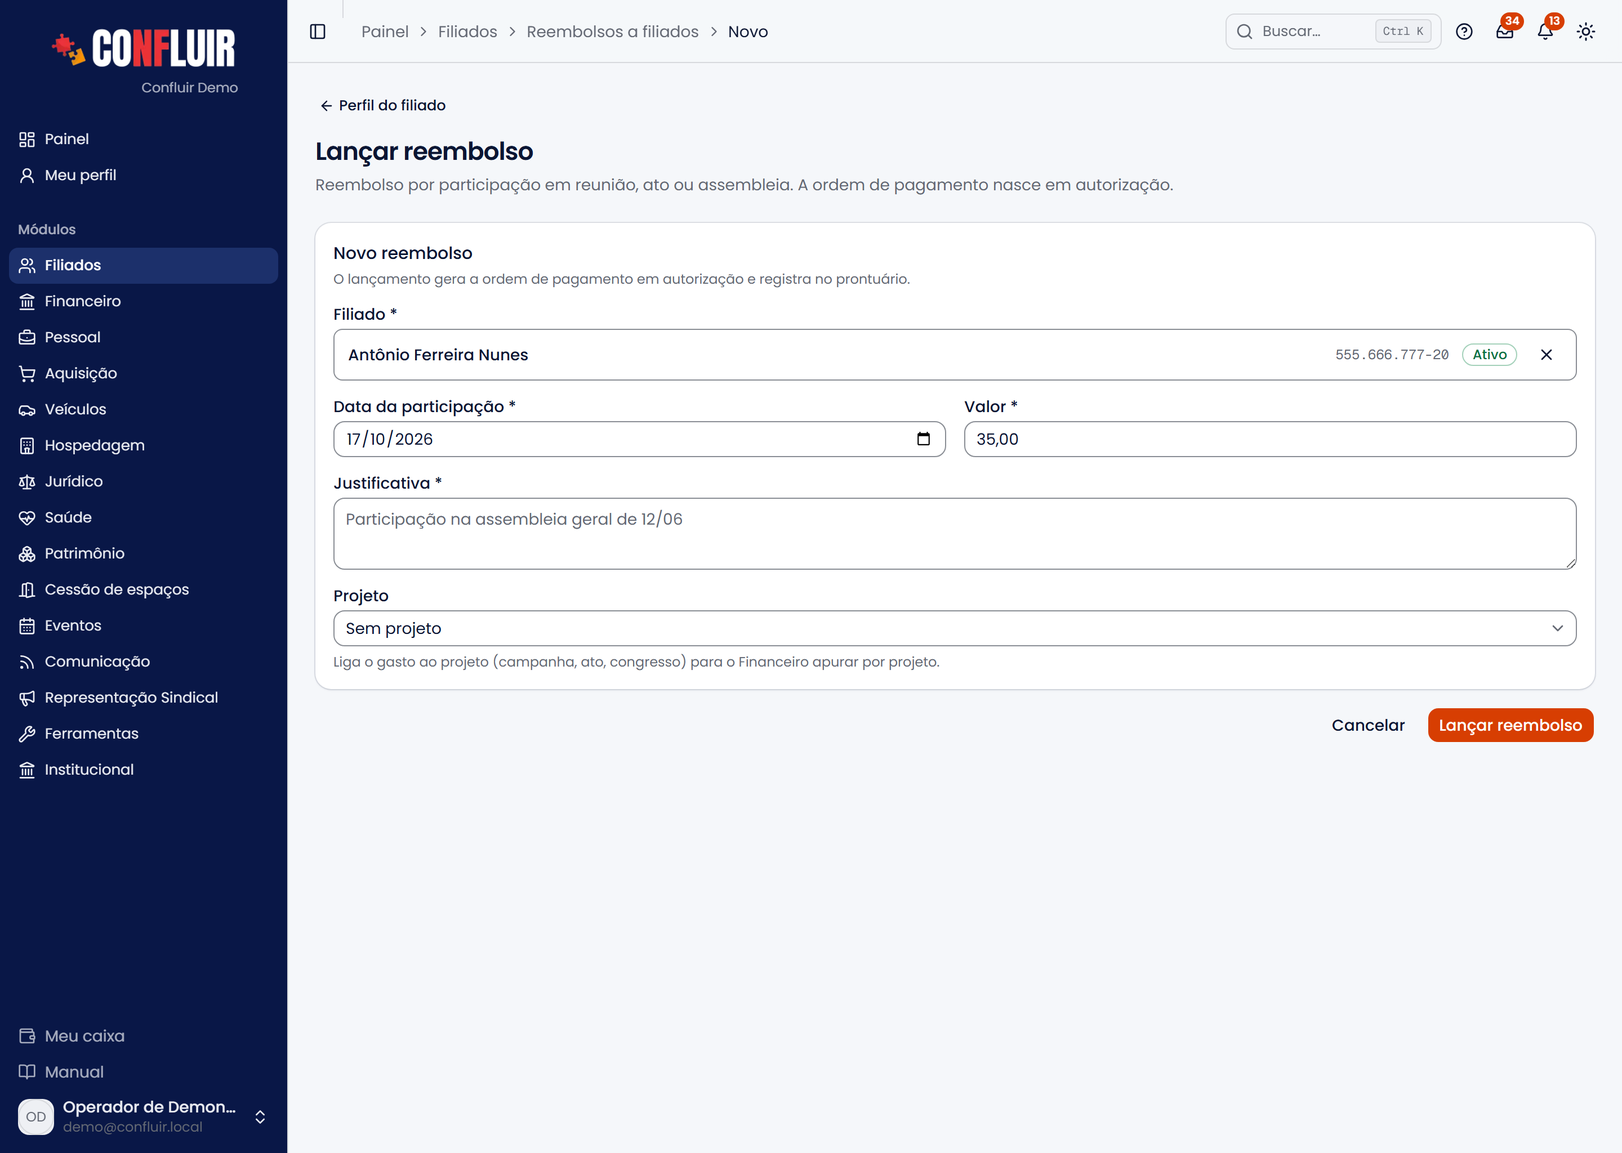
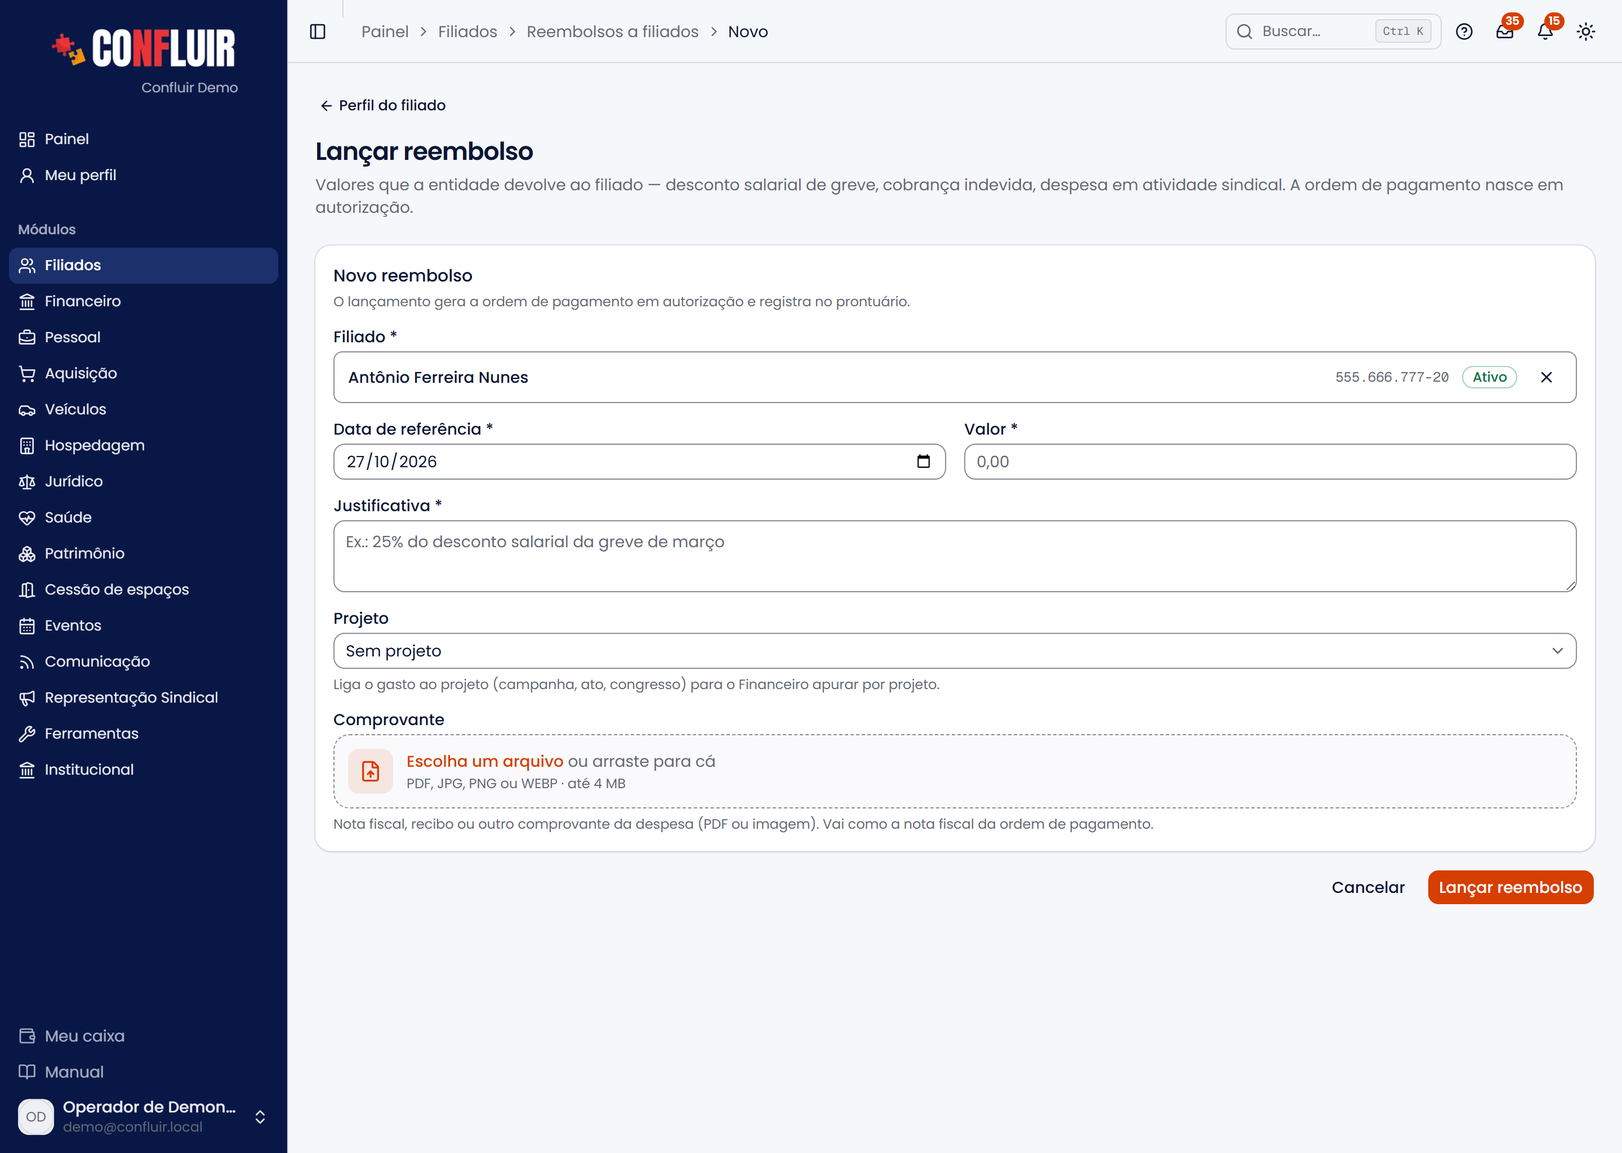
Reembolsos a filiados: sem valor padrão e textos do uso real
O valor fixo de R$ 35 (ajuda de presença) não corresponde ao uso: quase todos
os lançamentos devolvem desconto salarial de greve ou cobrança indevida.
Sai o valor padrão (campo da Configuração, preenchimento no formulário e
cartão da lista); a Configuração fica só com o centro de custo, e a coluna
valor_reembolso segue no banco sem uso.

Textos deixam de falar em "participação em reunião, ato ou assembleia":
subtítulos, card do perfil, "Data de referência", exemplo da justificativa e
a descrição da ordem ("Reembolso a filiado"). Manual, prints e base de ajuda
(só o artigo de reembolsos) atualizados.

diff --git a/src/lib/ajuda/base-conhecimento.ts b/src/lib/ajuda/base-conhecimento.ts
@@ -172,7 +172,7 @@ export const BASE_AJUDA: ArtigoBase[] = [
   {
     "area": "filiados",
     "slug": "reembolsos",
-    "texto": "Reembolso a filiado é o valor que a entidade devolve ao associado por\nparticipar de uma atividade sindical — reunião, ato, assembleia, congresso.\nÉ um valor fixo por participação, definido pela entidade, e cada lançamento\ngera a ordem de pagamento no Financeiro.\n\n Reembolsos \n\n O que a tela mostra\n\nFiliados → Reembolsos abre com quanto já foi lançado no mês.\nAbaixo, a lista de lançamentos com filiado, justificativa, projeto, valor,\no código da ordem e a situação — que é a situação da ordem no\nFinanceiro: Em autorização, A pagar, Paga.\n\n \n\n Lançar um reembolso\n\n \n \nEscolha o filiado: \n Pelo botão Lançar reembolso (busca por nome, CPF ou matrícula) ou,\n mais rápido, pelo botão de mesmo nome no cartão Reembolsos do\n perfil do filiado — aí a pessoa já vem escolhida.\n \n \nData, justificativa e projeto: \n A data é a da participação. A justificativa diz o motivo (\"assembleia\n geral de 12/06\"). O projeto liga o gasto à campanha ou ao ato, para o\n Financeiro apurar por projeto.\n \n \nInforme o valor: \n O valor a reembolsar naquele caso — não há valor padrão.\n \n \nAnexe o comprovante (opcional): \n Nota fiscal, recibo ou outro comprovante da despesa, em PDF ou imagem (até\n 4 MB). Ele vai como a nota fiscal da ordem de pagamento: o Financeiro o\n vê na ordem e a auditoria o reconhece como anexado.\n \n \nLançar: \n No mesmo ato nascem a ordem de pagamento (tipo Reembolso, Em\n autorização, com o filiado como favorecido, o centro de custo da\n configuração, a chave Pix, se a entidade a tem, e o comprovante, se\n anexado) e um apontamento no prontuário do filiado.\n \n \n\n \n\nA autorização continua sendo humana: \n O lançamento não paga ninguém. A ordem chega ao Financeiro Em\n autorização e segue pela alçada como qualquer outra. Quem lança\n reembolso não precisa ter alçada.\n \n\n Editar e desfazer\n\nClique no lançamento para abrir. Enquanto a ordem não foi paga, tudo se\nedita — e a ordem acompanha (valor e descrição). Com a ordem paga, só\njustificativa e projeto mudam: o dinheiro saiu, valor e data ficam.\n\nO comprovante pode ser anexado ou trocado a qualquer momento, mesmo com a\nordem paga: o botão Comprovante, ao lado da ordem, abre o arquivo atual, e\no campo Trocar o comprovante do formulário substitui a nota fiscal da\nordem. A troca fica na trilha da ordem e a auditoria a reavalia. Salvar sem\nescolher arquivo mantém o comprovante que já estava.\n\nDesfazer apaga o lançamento, o apontamento do prontuário e marca a ordem\ncomo excluída no Financeiro. Ordem paga não se desfaz — um pagamento\nindevido se trata no Financeiro.\n\n Configuração\n\nEm Reembolsos → Configuração a entidade define o centro de custo: a\nordem nasce com ele como centro de custo de despesa.\n\n De onde vieram\n\nOs 1.848 reembolsos do sistema antigo vieram na virada da Filiação\n(setembro de 2026), com justificativa, projeto e a ordem de pagamento\ncorrespondente. Alguns não têm ordem ligada — o registro antigo não a\nguardava — e aparecem com sem ordem na situação.\n\n Erros comuns\n\n- \"Não vejo o botão Lançar reembolso no perfil.\" Exige a permissão\n Reembolsos ou Gestão da filiação.\n- \"A situação não muda para Paga.\" O pagamento é registrado no\n Financeiro, na ordem. Aqui só se lê."
+    "texto": "Reembolso a filiado é o valor que a entidade devolve ao associado — o\ndesconto salarial de uma greve, uma cobrança feita em duplicidade, uma despesa\nem atividade sindical. O valor é informado a cada lançamento, e cada lançamento\ngera a ordem de pagamento no Financeiro.\n\n Reembolsos \n\n O que a tela mostra\n\nFiliados → Reembolsos abre com quanto já foi lançado no mês.\nAbaixo, a lista de lançamentos com filiado, justificativa, projeto, valor,\no código da ordem e a situação — que é a situação da ordem no\nFinanceiro: Em autorização, A pagar, Paga.\n\n \n\n Lançar um reembolso\n\n \n \nEscolha o filiado: \n Pelo botão Lançar reembolso (busca por nome, CPF ou matrícula) ou,\n mais rápido, pelo botão de mesmo nome no cartão Reembolsos do\n perfil do filiado — aí a pessoa já vem escolhida.\n \n \nData, justificativa e projeto: \n A data de referência situa o reembolso no tempo (o dia do desconto, da\n cobrança ou da atividade). A justificativa diz o motivo (\"25% do desconto\n salarial da greve de março\"). O projeto liga o gasto à campanha ou ao ato,\n para o Financeiro apurar por projeto.\n \n \nInforme o valor: \n O valor a reembolsar naquele caso — não há valor padrão.\n \n \nAnexe o comprovante (opcional): \n Nota fiscal, recibo ou outro comprovante da despesa, em PDF ou imagem (até\n 4 MB). Ele vai como a nota fiscal da ordem de pagamento: o Financeiro o\n vê na ordem e a auditoria o reconhece como anexado.\n \n \nLançar: \n No mesmo ato nascem a ordem de pagamento (tipo Reembolso, Em\n autorização, com o filiado como favorecido, o centro de custo da\n configuração, a chave Pix, se a entidade a tem, e o comprovante, se\n anexado) e um apontamento no prontuário do filiado.\n \n \n\n \n\nA autorização continua sendo humana: \n O lançamento não paga ninguém. A ordem chega ao Financeiro Em\n autorização e segue pela alçada como qualquer outra. Quem lança\n reembolso não precisa ter alçada.\n \n\n Editar e desfazer\n\nClique no lançamento para abrir. Enquanto a ordem não foi paga, tudo se\nedita — e a ordem acompanha (valor e descrição). Com a ordem paga, só\njustificativa e projeto mudam: o dinheiro saiu, valor e data ficam.\n\nO comprovante pode ser anexado ou trocado a qualquer momento, mesmo com a\nordem paga: o botão Comprovante, ao lado da ordem, abre o arquivo atual, e\no campo Trocar o comprovante do formulário substitui a nota fiscal da\nordem. A troca fica na trilha da ordem e a auditoria a reavalia. Salvar sem\nescolher arquivo mantém o comprovante que já estava.\n\nDesfazer apaga o lançamento, o apontamento do prontuário e marca a ordem\ncomo excluída no Financeiro. Ordem paga não se desfaz — um pagamento\nindevido se trata no Financeiro.\n\n Configuração\n\nEm Reembolsos → Configuração a entidade define o centro de custo: a\nordem nasce com ele como centro de custo de despesa.\n\n De onde vieram\n\nOs 1.848 reembolsos do sistema antigo vieram na virada da Filiação\n(setembro de 2026), com justificativa, projeto e a ordem de pagamento\ncorrespondente. Alguns não têm ordem ligada — o registro antigo não a\nguardava — e aparecem com sem ordem na situação.\n\n Erros comuns\n\n- \"Não vejo o botão Lançar reembolso no perfil.\" Exige a permissão\n Reembolsos ou Gestão da filiação.\n- \"A situação não muda para Paga.\" O pagamento é registrado no\n Financeiro, na ordem. Aqui só se lê."
   },
   {
     "area": "filiados",

diff --git a/src/lib/db/filiacao-reembolsos-edicao.ts b/src/lib/db/filiacao-reembolsos-edicao.ts
@@ -60,7 +60,6 @@ export type FiltroReembolsos = {
 }
 
 export type ConfigReembolsoCompleta = {
-  valorReembolso: number | null
   centroCustoId: string | null
 }
 
@@ -159,11 +158,10 @@ export async function configReembolsoCompleta(): Promise<ConfigReembolsoCompleta
   const emp = await tenantAtual()
   const { data } = await admin
     .from("filiacao_reembolsos_config")
-    .select("valor_reembolso, centro_custo_id")
+    .select("centro_custo_id")
     .eq("emp_proprietaria_id", emp)
     .maybeSingle()
   return {
-    valorReembolso: data?.valor_reembolso != null ? Number(data.valor_reembolso) : null,
     centroCustoId: (data?.centro_custo_id as string | null) ?? null,
   }
 }
@@ -261,7 +259,7 @@ export async function criarReembolso(dados: DadosReembolso, atorId: string): Pro
     comprovante = up.caminho
   }
 
-  const descricaoOrdem = `Reembolso de participação — ${nome} — ${dados.justificativa}`
+  const descricaoOrdem = `Reembolso a filiado — ${nome} — ${dados.justificativa}`
   const { data: ordem, error: erroOrdem } = await inserirOrdemVerificada({
       codigo: gerarCodigoProcesso(),
       tipo: "Reembolso",
@@ -292,7 +290,7 @@ export async function criarReembolso(dados: DadosReembolso, atorId: string): Pro
       filiacao_id: filiado.id,
       data: `${dados.data}T12:00:00-03:00`,
       tipo: "Reembolso",
-      descricao: `Reembolso de participação de ${formatarMoeda(dados.valor)} — ${dados.justificativa}`,
+      descricao: `Reembolso a filiado de ${formatarMoeda(dados.valor)} — ${dados.justificativa}`,
       diretor_funcionario_id: atorId,
       emp_proprietaria_id: emp,
       created_at: agora,
@@ -375,7 +373,7 @@ export async function atualizarReembolso(
 
   if (ordemViva) {
     const ordem: Record<string, unknown> = {
-      descricao: `Reembolso de participação — ${atual.filiadoNome ?? "Filiado"} — ${dados.justificativa}`,
+      descricao: `Reembolso a filiado — ${atual.filiadoNome ?? "Filiado"} — ${dados.justificativa}`,
       projeto_id: dados.projetoId,
     }
     if (!paga) ordem.valor_inicial_cobranca = dados.valor
@@ -388,9 +386,9 @@ export async function atualizarReembolso(
       await usuarioDaTrilha(),
       comprovante
         ? ordemViva.arquivo_nota_fiscal
-          ? "Reembolso de participação editado; comprovante trocado."
-          : "Reembolso de participação editado; comprovante anexado."
-        : "Reembolso de participação editado.",
+          ? "Reembolso a filiado editado; comprovante trocado."
+          : "Reembolso a filiado editado; comprovante anexado."
+        : "Reembolso a filiado editado.",
       ordem
     )
   }
@@ -398,7 +396,7 @@ export async function atualizarReembolso(
     await admin
       .from("filiacao_prontuario")
       .update({
-        descricao: `Reembolso de participação de ${formatarMoeda(paga ? (atual.valor ?? dados.valor) : dados.valor)} — ${dados.justificativa}`,
+        descricao: `Reembolso a filiado de ${formatarMoeda(paga ? (atual.valor ?? dados.valor) : dados.valor)} — ${dados.justificativa}`,
         modified_at: new Date().toISOString(),
       })
       .eq("emp_proprietaria_id", emp)
@@ -457,7 +455,6 @@ export async function salvarConfigReembolso(
   const { error } = await admin.from("filiacao_reembolsos_config").upsert(
     {
       emp_proprietaria_id: emp,
-      valor_reembolso: dados.valorReembolso,
       centro_custo_id: dados.centroCustoId,
       atualizada_por: atorId,
       updated_at: new Date().toISOString(),

diff --git a/src/app/painel/filiados/reembolsos/reembolso-form.tsx b/src/app/painel/filiados/reembolsos/reembolso-form.tsx
@@ -33,14 +33,12 @@ const ENDPOINT = "/painel/filiados/reembolsos/busca-filiado"
  */
 export function ReembolsoForm({
   projetos,
-  valorPadrao,
   filiadoInicial,
   reembolso,
   comprovanteUrl,
   voltarPara,
 }: {
   projetos: OpcaoProjeto[]
-  valorPadrao: number | null
   /** Pré-seleção vinda do perfil do filiado. */
   filiadoInicial?: SugestaoFiliado | null
   reembolso?: ReembolsoLinha
@@ -109,7 +107,7 @@ export function ReembolsoForm({
           )}
 
           <div className="grid gap-1.5">
-            <Label htmlFor="data">Data da participação *</Label>
+            <Label htmlFor="data">Data de referência *</Label>
             <Input
               id="data"
               name="data"
@@ -127,27 +125,13 @@ export function ReembolsoForm({
               id="valor"
               name="valor"
               inputMode="decimal"
-              defaultValue={
-                reembolso?.valor != null
-                  ? reembolso.valor.toFixed(2).replace(".", ",")
-                  : valorPadrao != null
-                    ? valorPadrao.toFixed(2).replace(".", ",")
-                    : ""
-              }
-              placeholder="35,00"
+              defaultValue={reembolso?.valor != null ? reembolso.valor.toFixed(2).replace(".", ",") : ""}
+              placeholder="0,00"
               required
               disabled={paga}
             />
             {paga && reembolso?.valor != null && (
               <input type="hidden" name="valor" value={reembolso.valor.toFixed(2)} />
-            )}
-            {!reembolso && valorPadrao == null && (
-              <p className="text-warning-fg text-xs">
-                Sem valor padrão configurado.{" "}
-                <Link href="/painel/filiados/reembolsos/configuracao" className="underline">
-                  Configurar
-                </Link>
-              </p>
             )}
           </div>
 
@@ -158,7 +142,7 @@ export function ReembolsoForm({
               name="justificativa"
               rows={2}
               defaultValue={reembolso?.justificativa ?? ""}
-              placeholder="Participação na assembleia geral de 12/06"
+              placeholder="Ex.: 25% do desconto salarial da greve de março"
               required
             />
           </div>

diff --git a/src/app/painel/filiados/reembolsos/page.tsx b/src/app/painel/filiados/reembolsos/page.tsx
@@ -14,7 +14,6 @@ import { formatarCpf } from "@/lib/cpf"
 import { hojeSP } from "@/lib/db/comum"
 import {
   POR_PAGINA,
-  configReembolsoCompleta,
   lancadoNoMes,
   listarReembolsos,
   type FiltroReembolsos,
@@ -56,10 +55,9 @@ export default async function ReembolsosPage({
   }
 
   const hoje = hojeSP()
-  const [{ linhas, total }, mes, config] = await Promise.all([
+  const [{ linhas, total }, mes] = await Promise.all([
     listarReembolsos(filtro),
     lancadoNoMes(hoje),
-    configReembolsoCompleta(),
   ])
   const paginas = Math.max(1, Math.ceil(total / POR_PAGINA))
   const pagina = filtro.pagina ?? 1
@@ -92,7 +90,7 @@ export default async function ReembolsosPage({
           </Button>
           <h1 className="text-2xl font-semibold tracking-tight">Reembolsos a filiados</h1>
           <p className="text-muted-foreground mt-1 text-sm">
-            Reembolso por participação em reunião, ato ou assembleia. Cada lançamento gera a
+            Valores que a entidade devolve ao filiado — desconto salarial de greve, cobrança indevida, despesa em atividade sindical. Cada lançamento gera a
             ordem de pagamento.
           </p>
         </div>
@@ -119,14 +117,6 @@ export default async function ReembolsosPage({
       )}
 
       <div className="grid gap-4 sm:grid-cols-2">
-        <Card>
-          <CardHeader>
-            <CardDescription>Valor de cada reembolso</CardDescription>
-            <CardTitle className="text-2xl tabular-nums">
-              {config.valorReembolso != null ? formatarMoeda(config.valorReembolso) : "—"}
-            </CardTitle>
-          </CardHeader>
-        </Card>
         <Card>
           <CardHeader>
             <CardDescription>Lançado neste mês</CardDescription>

diff --git a/src/app/painel/filiados/reembolsos/novo/page.tsx b/src/app/painel/filiados/reembolsos/novo/page.tsx
@@ -5,7 +5,6 @@ import { ArrowLeft } from "lucide-react"
 import type { SugestaoFiliado } from "@/components/filiado-picker"
 import { Button } from "@/components/ui/button"
 import { requirePermissao } from "@/lib/auth"
-import { configReembolsoCompleta } from "@/lib/db/filiacao-reembolsos-edicao"
 import { listarProjetos } from "@/lib/db/projetos"
 import { createAdminClient } from "@/lib/supabase/admin"
 import { tenantAtual } from "@/lib/tenant"
@@ -24,8 +23,7 @@ export default async function NovoReembolsoPage({
   await requirePermissao("filiacao_reembolsos", ["filiacao_gestao"])
   const { filiado } = await searchParams
 
-  const [config, projetos, inicial] = await Promise.all([
-    configReembolsoCompleta(),
+  const [projetos, inicial] = await Promise.all([
     listarProjetos({ situacao: "andamento" }),
     filiadoInicial(filiado),
   ])
@@ -43,15 +41,14 @@ export default async function NovoReembolsoPage({
         </Button>
         <h1 className="text-2xl font-semibold tracking-tight">Lançar reembolso</h1>
         <p className="text-muted-foreground mt-1 text-sm">
-          Reembolso por participação em reunião, ato ou assembleia. A ordem de pagamento nasce
-          em autorização.
+          Valores que a entidade devolve ao filiado — desconto salarial de greve, cobrança indevida, despesa em atividade sindical. A ordem de
+          pagamento nasce em autorização.
         </p>
       </div>
       <ReembolsoForm
         projetos={projetos
           .map((p) => ({ id: p.id, titulo: p.titulo ?? "(sem título)" }))
           .sort((a, b) => a.titulo.localeCompare(b.titulo, "pt-BR"))}
-        valorPadrao={config.valorReembolso}
         filiadoInicial={inicial}
         voltarPara={voltar}
       />

diff --git a/src/app/painel/filiados/reembolsos/configuracao/config-form.tsx b/src/app/painel/filiados/reembolsos/configuracao/config-form.tsx
@@ -5,7 +5,6 @@ import { Loader2 } from "lucide-react"
 
 import { Alert, AlertDescription } from "@/components/ui/alert"
 import { Button } from "@/components/ui/button"
-import { Input } from "@/components/ui/input"
 import { Label } from "@/components/ui/label"
 import {
   Select,
@@ -28,7 +27,6 @@ export function ConfigForm({
   centros: OpcaoCentroCusto[]
 }) {
   const [estado, formAction, pendente] = useActionState(salvarConfigAction, {})
-  const moeda = (v: number | null) => (v != null ? v.toFixed(2).replace(".", ",") : "")
 
   return (
     <form action={formAction} className="grid gap-4">
@@ -44,21 +42,6 @@ export function ConfigForm({
       )}
 
       <div className="grid gap-4 sm:grid-cols-2">
-        <div className="grid gap-1.5">
-          <Label htmlFor="valor_reembolso">Valor de cada reembolso *</Label>
-          <Input
-            id="valor_reembolso"
-            name="valor_reembolso"
-            inputMode="decimal"
-            defaultValue={moeda(config.valorReembolso)}
-            placeholder="35,00"
-            required
-          />
-          <p className="text-muted-foreground text-xs">
-            Vem preenchido em cada lançamento; pode ser alterado caso a caso.
-          </p>
-        </div>
-
         <div className="grid gap-1.5">
           <Label htmlFor="centro_custo_id">Centro de custo</Label>
           <Select name="centro_custo_id" defaultValue={config.centroCustoId ?? "sem_centro"}>

diff --git a/src/app/painel/filiados/reembolsos/actions.ts b/src/app/painel/filiados/reembolsos/actions.ts
@@ -43,7 +43,7 @@ function revalidar(filiadoId?: string | null, id?: string) {
 
 function lerCampos(formData: FormData) {
   const data = texto(formData, "data")
-  if (!data || !DATA.test(data)) return { erro: "Informe a data da participação." }
+  if (!data || !DATA.test(data)) return { erro: "Informe a data de referência." }
   const justificativa = texto(formData, "justificativa")
   if (!justificativa) return { erro: "Diga o motivo do reembolso (reunião, ato, assembleia…)." }
   const projetoId = texto(formData, "projeto_id")
@@ -115,11 +115,8 @@ export async function salvarConfigAction(
   if (centroCustoId && centroCustoId !== "sem_centro" && !UUID.test(centroCustoId)) {
     return { erro: "Centro de custo inválido." }
   }
-  const valor = dinheiro(formData, "valor_reembolso")
-  if (valor == null || !(valor > 0)) return { erro: "Informe o valor de cada reembolso." }
   const r = await salvarConfigReembolso(
     {
-      valorReembolso: valor,
       centroCustoId: centroCustoId && centroCustoId !== "sem_centro" ? centroCustoId : null,
     },
     sessao.usuario.id

diff --git a/src/app/painel/filiados/page.tsx b/src/app/painel/filiados/page.tsx
@@ -529,7 +529,7 @@ export default async function FiliadosPage({
         {podeAcessar(sessao.permissoes, "filiacao_reembolsos", ["filiacao_gestao"]) && (
           <CartaoArea
             titulo="Reembolsos"
-            descricao="Reembolso por participação em reunião, ato ou assembleia, com a ordem de pagamento"
+            descricao="Valores devolvidos ao filiado (desconto de greve, cobrança indevida, despesas), com a ordem de pagamento"
             href="/painel/filiados/reembolsos"
             icone={Wallet}
           />

diff --git a/src/app/painel/filiados/[id]/page.tsx b/src/app/painel/filiados/[id]/page.tsx
@@ -868,8 +868,8 @@ export default async function FiliadoPage({
               )}
             </div>
             <CardDescription>
-              O que a entidade reembolsou a esta pessoa por participação — reunião,
-              ato, assembleia — com a justificativa de cada um.
+              O que a entidade devolveu a esta pessoa — desconto de greve, cobrança
+              indevida, despesas — com a justificativa de cada um.
             </CardDescription>
           </CardHeader>
           <CardContent>

diff --git a/src/app/painel/filiados/reembolsos/configuracao/page.tsx b/src/app/painel/filiados/reembolsos/configuracao/page.tsx
@@ -28,7 +28,7 @@ export default async function ConfiguracaoReembolsosPage() {
         </Button>
         <h1 className="text-2xl font-semibold tracking-tight">Configuração de reembolsos</h1>
         <p className="text-muted-foreground mt-1 text-sm">
-          A regra da entidade: quanto vale cada reembolso e de onde sai o dinheiro.
+          A regra da entidade: de onde sai o dinheiro dos reembolsos.
         </p>
       </div>
 

diff --git a/src/app/painel/filiados/reembolsos/[id]/page.tsx b/src/app/painel/filiados/reembolsos/[id]/page.tsx
@@ -109,7 +109,6 @@ export default async function ReembolsoPage({
         projetos={projetos
           .map((p) => ({ id: p.id, titulo: p.titulo ?? "(sem título)" }))
           .sort((a, b) => a.titulo.localeCompare(b.titulo, "pt-BR"))}
-        valorPadrao={null}
         reembolso={reembolso}
         comprovanteUrl={comprovanteUrl}
         voltarPara="/painel/filiados/reembolsos"
